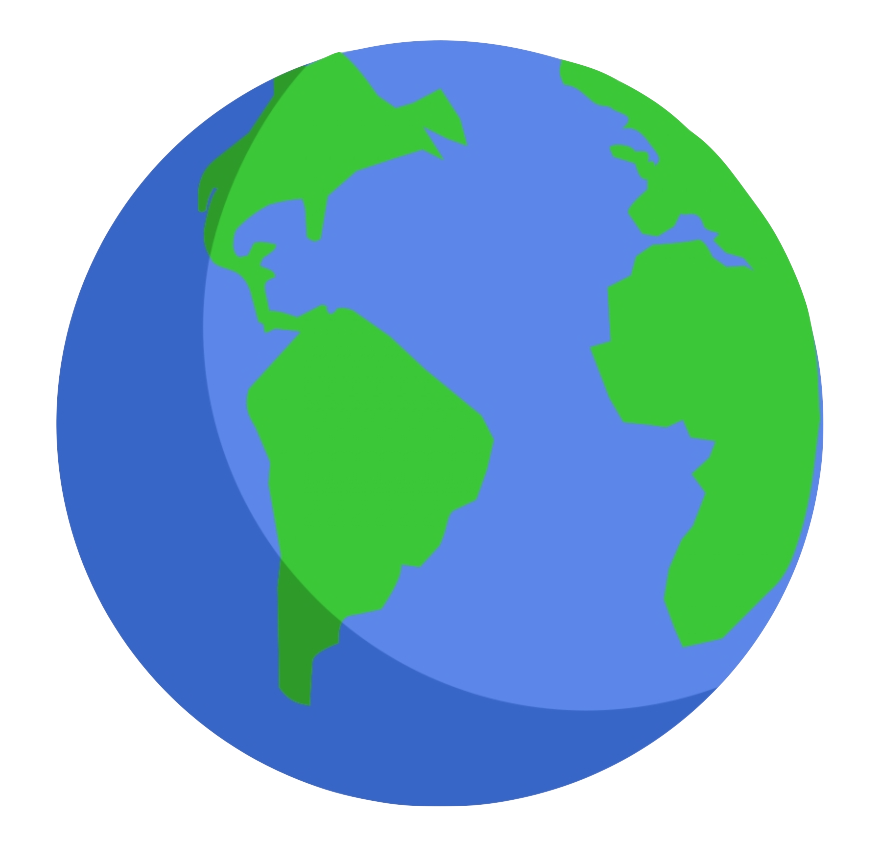
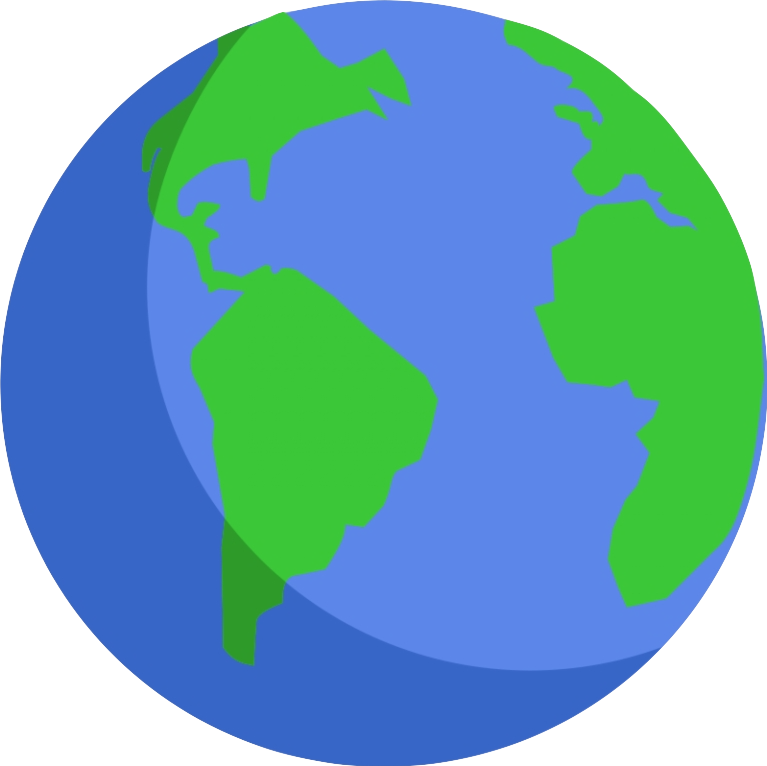
Got earth moving

diff --git a/Pygame/displayplanets.py b/Pygame/displayplanets.py
@@ -35,16 +35,13 @@ RED = (225, 50, 50)
 GRAY = (50, 50, 50)
 
 CELESTIAL_OBJECT = pg.image.load('./Pygame/Earth.png')
+CELESTIAL_OBJECT = pg.transform.scale(CELESTIAL_OBJECT, (76, 76))
 
 SCREEN_WIDTH = 1440
 SCREEN_HEIGHT = 800
 FPS = 60 #Standard Smooth FPS
 
 POINT_RADIUS = 10 #Pixels
-
-
-
-
 
 POINTS = [
     #(xCoordinate, yCoordinate), currentlyBeingDragged
@@ -55,21 +52,12 @@ POINTS = [
     ((1075, 630), False),
 ]
 
-# POINTS = [
-#     #(xCoordinate, yCoordinate), currentlyBeingDragged
-#     ((-100, 100), False), 
-#     ((0, 100), False),
-#     ((100, 0), False),
-#     ((0, -100), False),
-#     ((-100, 0), False),
-# ]
-
 DRAW_WEB = True
-DRAW_BEIZER = False
-DRAW_ELLIPSE = True
+DRAW_ORBIT = True
 DRAW_FILL = False
 DRAW_MATRIX = True
 DRAW_EQUATION = True
+DRAW_PLANET = True
 
 
 def quitSimulation(): #Quits Pygame and Python
@@ -92,76 +80,6 @@ def pointAlreadyDragging():
     for point in POINTS:
         if point[1]:
             return True
-
-
-def computeBezierPoints(vertices, numPoints=None):
-    if numPoints is None:
-        numPoints = 30
-    # if numPoints &lt; 2 or len(vertices) != 4:
-    #     return None
-
-    result = []
-
-    b0x = vertices[0][0]
-    b0y = vertices[0][1]
-    b1x = vertices[1][0]
-    b1y = vertices[1][1]
-    b2x = vertices[2][0]
-    b2y = vertices[2][1]
-    b3x = vertices[3][0]
-    b3y = vertices[3][1]
-
-
-
-    # Compute polynomial coefficients from Bezier points
-    ax = -b0x + 3 * b1x + -3 * b2x + b3x
-    ay = -b0y + 3 * b1y + -3 * b2y + b3y
-
-    bx = 3 * b0x + -6 * b1x + 3 * b2x
-    by = 3 * b0y + -6 * b1y + 3 * b2y
-
-    cx = -3 * b0x + 3 * b1x
-    cy = -3 * b0y + 3 * b1y
-
-    dx = b0x
-    dy = b0y
-
-    # Set up the number of steps and step size
-    numSteps = numPoints - 1 # arbitrary choice
-    h = 1.0 / numSteps # compute our step size
-
-    # Compute forward differences from Bezier points and "h"
-    pointX = dx
-    pointY = dy
-
-    firstFDX = ax * (h * h * h) + bx * (h * h) + cx * h
-    firstFDY = ay * (h * h * h) + by * (h * h) + cy * h
-
-
-    secondFDX = 6 * ax * (h * h * h) + 2 * bx * (h * h)
-    secondFDY = 6 * ay * (h * h * h) + 2 * by * (h * h)
-
-    thirdFDX = 6 * ax * (h * h * h)
-    thirdFDY = 6 * ay * (h * h * h)
-
-    # Compute points at each step
-    result.append((int(pointX), int(pointY)))
-
-    for i in range(numSteps):
-        pointX += firstFDX
-        pointY += firstFDY
-
-        firstFDX += secondFDX
-        firstFDY += secondFDY
-
-        secondFDX += thirdFDX
-        secondFDY += thirdFDY
-
-        result.append((int(pointX), int(pointY)))
-
-    return result
-
-
 
 
 def makeMatrix(points):
@@ -194,21 +112,17 @@ def drawRotatedEllipse(surface, color, rect, angle, center, width=0):
     surface.blit(rotated_surf, rotated_surf.get_rect(center = center))
 
 
+
 def simScreen():
     global SCREEN_WIDTH, SCREEN_HEIGHT, FPS, rectangle_draging
     refreshMath = False
+    t = 0
     
     #First time math
     controlPoints = [(point[0][0], point[0][1]) for point in POINTS]
     matrix = makeMatrix(controlPoints)
     null_space_coeffiecients = la.null_space(matrix)
     
-    a = 0
-    b = 0
-    rot_angle = 0
-    h = 0
-    k = 0
-
     firstLoop = True
     
     while True:
@@ -247,23 +161,23 @@ def simScreen():
             controlPoints = [(point[0][0], point[0][1]) for point in POINTS] + [(POINTS[0][0][0], POINTS[0][0][1])]
             pg.draw.lines(screen, GRAY, False, controlPoints)
 
-        if DRAW_BEIZER:
-            b_points = computeBezierPoints(controlPoints, 100)
-            pg.draw.lines(screen, BLUE, False, b_points, 2)
-        
-        
+
         if refreshMath or firstLoop:
             firstLoop = False
-            controlPoints = [(point[0][0], point[0][1]) for point in POINTS]
-            matrix = makeMatrix(controlPoints)
-            printMatrix(matrix)
-            null_space_coeffiecients = la.null_space(matrix)
-            print(null_space_coeffiecients)
-            A, B, C, D, E, F = null_space_coeffiecients
-        
-            #Daniel
-            #code the equations
+            
             try:
+                controlPoints = [(point[0][0], point[0][1]) for point in POINTS]
+                matrix = makeMatrix(controlPoints)
+                # printMatrix(matrix)
+                null_space_coeffiecients = la.null_space(matrix)
+                # print(null_space_coeffiecients)
+                A, B, C, D, E, F = null_space_coeffiecients
+                
+                threshold = 0.0000005
+                if abs(A) < threshold or abs(B) < threshold or abs(C) < threshold or abs(D) < threshold or abs(E) < threshold or abs(F) < threshold:
+                    # print("No Solution")
+                    continue
+        
                 determinant = (B**2) - 4 * A * C
                 center_x = (((2 * C * D) - (B * E)) / determinant)[0]
                 center_y = (((2 * A * E) - (B * D)) / determinant)[0]
@@ -279,28 +193,28 @@ def simScreen():
                 
                 #cot(2𝛼)=(𝐴−𝐶/𝐵)
                 right = (A-C) / B
-                #cot(2a)=(𝐴−𝐶/𝐵)
-                
                 
                 this_a = np.arctan(1/right)/2
-                print(this_a)
                 rot_angle = 90 - (this_a * 180 / math.pi)
                 
-                # if B != 0:
-                #     rot_angle = math.atan((C[0] - A[0] - math.sqrt((A[0] - C[0])**2 + B[0]**2) / B[0]))
-                #     rot_angle = rot_angle * 180 / math.pi
-                # elif A > C:
-                #     rot_angle = 90
-                # else:
-                #     rot_angle = 0
-                    
-                    
             except:
                 print("Error")
-            
         
-        if DRAW_ELLIPSE:
-            drawRotatedEllipse(screen, BLUE, (0, 0, 2 * semi_minor, 2 * semi_major), rot_angle, (center_x, center_y))
+        
+        if DRAW_ORBIT:
+            if A == C:
+                #perfect circle 
+                drawRotatedEllipse(screen, GRAY, (center_x - semi_major, center_y - semi_major, 2 * semi_major, 2 * semi_major), 0, (center_x, center_y))
+            elif A == 0 or C == 0 and (A != 0 or C != 0):
+                #parabola
+                pass
+            elif A / abs(A) == C / abs(C):
+                #ellipse
+                
+                drawRotatedEllipse(screen, BLUE, (0, 0, 2 * semi_minor, 2 * semi_major), rot_angle%360, (center_x, center_y))
+            else: 
+                #hyperbola
+                pass
             
             #also draw the center
             # pg.draw.circle(screen, RED, (int(center_x), int(center_y)), 5)
@@ -336,19 +250,30 @@ def simScreen():
             
             equation = str(DISP_A) + "*x*x + " + str(DISP_B) + "*x*y + " + str(DISP_C) + "*y*y + " + str(DISP_D) + "*x + " + str(DISP_E) + "*y + " + str(DISP_F)
             SIM_FONT.render_to(screen, (40, 15), equation, WHITE)
-        
-        
+
         for i in range(len(POINTS)):
             if POINTS[i][1]: #currently being dragged
                 pg.draw.circle(screen, PURPLE, POINTS[i][0], POINT_RADIUS)
             else:
                 pg.draw.circle(screen, RED, POINTS[i][0], POINT_RADIUS)
-                
-                
 
-                        
+
+        if DRAW_PLANET:
+            #planet location math
+            #in terms of parametric equations with variable t
+            
+            #𝑥′=𝑥cos𝛼−𝑦sin𝛼 and 𝑦′=𝑥sin𝛼+𝑦cos𝛼.
+            center_x_before_rotation = (semi_major * math.cos(t))
+            center_y_before_rotation = (semi_minor * math.sin(t))
+            
+            planet_center_x = center_x + (center_x_before_rotation * math.cos(this_a)) - (center_y_before_rotation * math.sin(this_a))
+            planet_center_y = center_y + (center_x_before_rotation * math.sin(this_a)) + (center_y_before_rotation * math.cos(this_a))
+            
+            screen.blit(CELESTIAL_OBJECT, (planet_center_x - CELESTIAL_OBJECT.get_width()/2, planet_center_y - CELESTIAL_OBJECT.get_height()/2))
         
-        # currentInterval += 1
+            
+        
+        t += 0.01
         backgroundInputCheck(pg.event.get())
         clock.tick(FPS)
         pg.display.flip()
